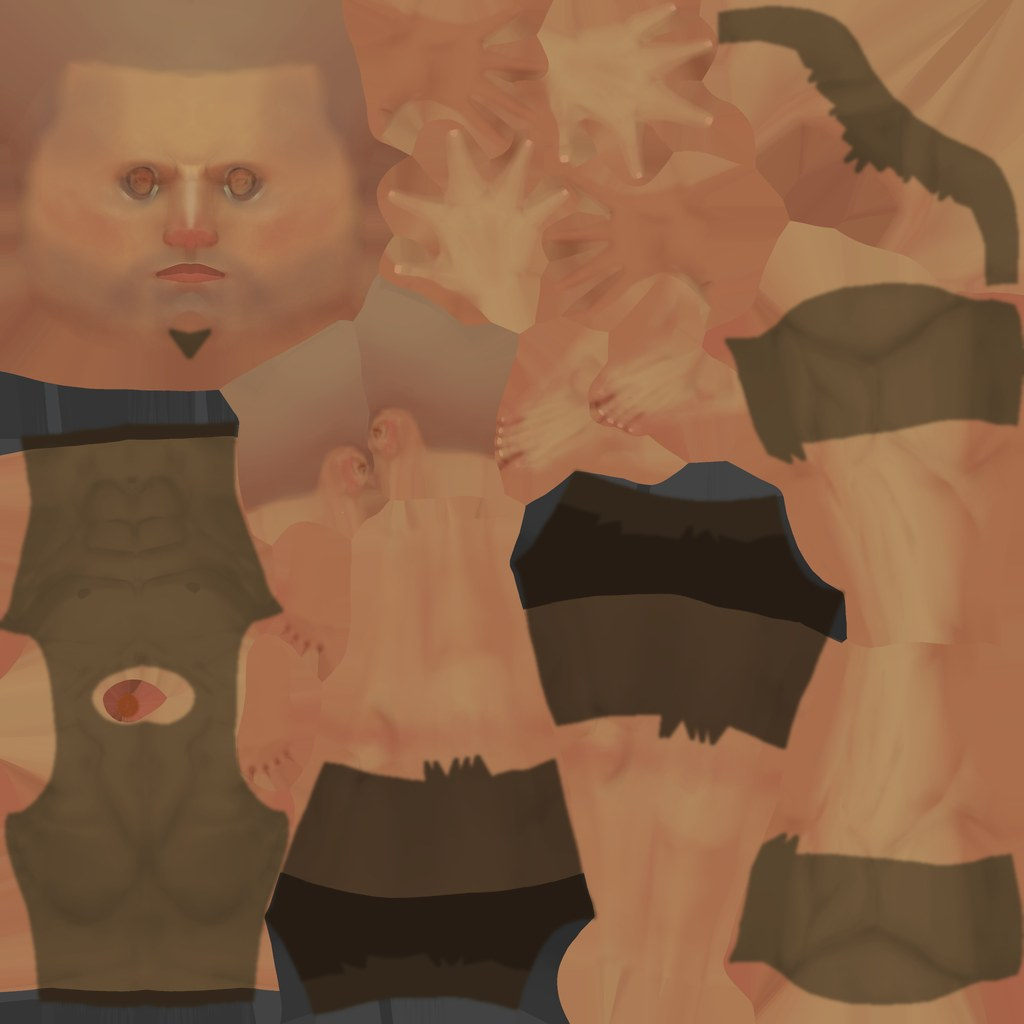
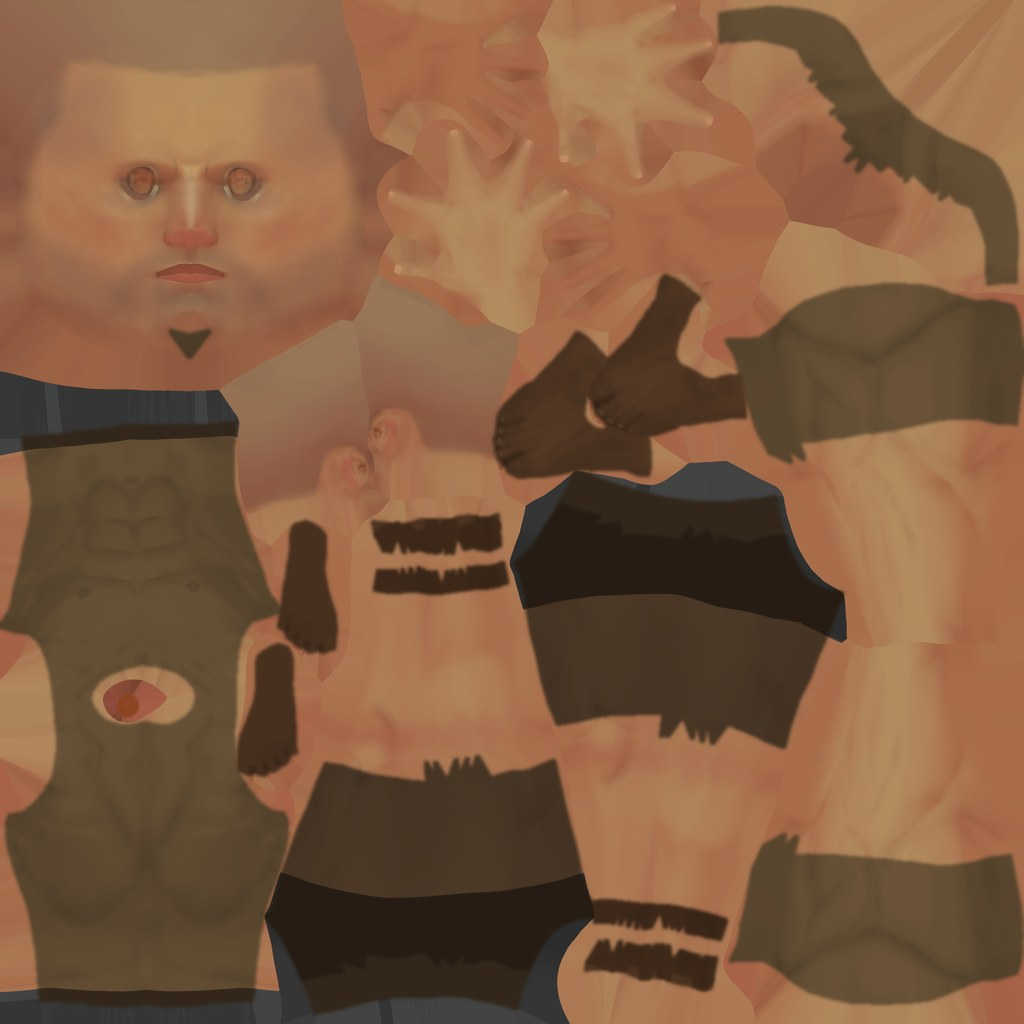
fix: chest no longer spins (counter-twist was accumulating on held guard poses); velites turn and run when pressed; feat: three Lusitanian companions who follow, hold during ambush, fight and can fall; Romans pick the nearest of Viriato and companions; leather shoes on all bodies
Claude-Session: https://claude.ai/code/session_01ELAARJfiSJ5tJReoBhHHsc

Changed region(s): [[0.4688, 0.25, 0.75, 0.4688], [0.2188, 0.5, 0.5, 0.7812], [0.5625, 0.875, 0.7188, 0.9688]]

diff --git a/src/game.js b/src/game.js
@@ -11,6 +11,7 @@ import { withTimeout } from './physics.js';
 import { sweepHit, capsuleOf, glance, bladeSegment, toWorld, bladeDir } from './swing.js';
 import { resolveQuality } from './quality.js';
 import { makeRig, driveRig } from './rig.js';
+import { followSlot, pickFoe, pickTarget, allyAct } from './ally.js';
 
 /**
  * Builds the whole game. Rendering, DOM and window are injected so the game can run headless in tests.
@@ -587,7 +588,8 @@ const WNAMES = ['Falcata', 'Dardos', 'Funda'];
 let state = 'menu';
 const P = { f: C.createFighter(), pos: new THREE.Vector3(), vy: 0, yaw: 0, pitch: 0, hp: 100, ground: true, crouch: 0, w: 0, dardos: 0, pedras: 0,
   atk: 0, cd: 0, kills: 0, shots: 0, hits: 0, heads: 0, time: 0, stepT: 0, bob: 0, swing: 0, throwT: 0, hurtT: 0 };
-let enemies = [], projectiles = [], pickups = [];
+let enemies = [], projectiles = [], pickups = [], allies = [], companions = 3;
+let forcedDir = null; // tests pin the blow direction
 let mission = 0, tentsBurnt = 0, missionMsgT = 0, alarm = false;
 Object.defineProperty(P, 'st', { get() { return P.f.stamina; }, set(v) { P.f.stamina = v; }, enumerable: false });
 Object.defineProperty(P, 'block', { get() { return P.f.blocking != null; }, enumerable: false });
@@ -597,6 +599,8 @@ let view = 'third'; // M&B-style over-the-shoulder by default; V toggles first p
 function resetWorld() {
   // clear dynamic objects
   for (const e of enemies) { scene.remove(e.m.root); if (e.corpse) phys.removeCorpse(e.corpse); }
+  for (const a of allies) scene.remove(a.m.root);
+  allies = [];
   for (const p of projectiles) phys.remove(p.pid);
   for (const p of projectiles) scene.remove(p.mesh);
   for (const p of pickups) scene.remove(p.mesh);
@@ -611,6 +615,7 @@ function resetWorld() {
   P.pos.set(CASTRO.x - 9, 0, CASTRO.z - 5); P.pos.y = heightAt(P.pos.x, P.pos.z);
   P.yaw = Math.PI * .28; P.pitch = -.05;
   mission = 0; tentsBurnt = 0; alarm = false;
+  for (let i = 0; i < companions; i++) spawnAlly(i);
   // patrol on the road, marching south
   const col = ['legio', 'legio', 'velite', 'legio', 'legio', 'velite', 'legio', 'legio'];
   col.forEach((k, i) => { const z = -18 - i * 3.2; spawn(k, roadX(z) + (i % 2 ? 1 : -1), z, 'patrol'); });
@@ -637,6 +642,16 @@ function spawn(kind, x, z, group) {
     dir: -1, aware: 0, atkT: 0, f: C.createFighter({ shieldHP: kind === 'velite' ? 0 : 220, stamina: kind === 'centurion' ? 140 : 100 }), aiT: rr(0, .3), act: 'approach', vel: { x: 0, z: 0 }, dodgeRoll: 1, mv: { x: 0, z: 0 }, releaseAt: 0, feintAt: 0, blockLeft: 0, slowT: 0, cd: rr(.5, 1.5), ph: rr(0, TAU), flash: 0, dead: false, deadT: 0, wander: null, wT: 0, strafe: rand() < .5 ? 1 : -1, moving: 0, barkT: 0 };
   if (group === 'patrol') { e.yaw = 0; e.dir = 1; } // marching south (+z)
   enemies.push(e); return e;
+}
+
+/** One of Viriato's companions: follows him, joins the fight once the Romans are fighting. */
+function spawnAlly(i) {
+  const m = soldier('lusitano'); scene.add(m.root);
+  const s = followSlot(i, P.pos, flatFwd());
+  const a = { kind: 'lusitano', ally: true, m, pos: new THREE.Vector3(s.x, heightAt(s.x, s.z), s.z), yaw: P.yaw + Math.PI, hp: 110, f: C.createFighter(), state: 'follow', i,
+    vel: { x: 0, z: 0 }, mv: { x: 0, z: 0 }, aiT: rr(0, .3), blockLeft: 0, releaseAt: 0, stride: 0, ph: rr(0, TAU), flash: 0, dead: false, deadT: 0, hits: 0, crouch: false, swingHits: new Set() };
+  m.root.position.copy(a.pos); m.root.rotation.y = a.yaw;
+  allies.push(a); return a;
 }
 
 function addPickup(type, x, z, y) {
@@ -843,6 +858,19 @@ function enemySwing(e, ev) {
   if (ev.p0 === 0) { e.swingHit = false; SFX.swing(); }
   if (e.swingHit || state !== 'play') return;
   if (bladeBounced(e.pos, e.yaw, ev.dir, ev.p1)) { C.stopBlade(e.f); SFX.clank(spatial(e.pos) * .7); return; }
+  const a = e.T && e.T.ally;
+  if (a) {                               // the blow is aimed at a companion
+    if (a.dead) return;
+    const ra = sweepHit(e.pos, e.yaw, ev.dir, ev.p0, ev.p1, capsuleOf(a.pos));
+    if (!ra.hit) return;
+    e.swingHit = true;
+    const da = V(a.pos.x - e.pos.x, 0, a.pos.z - e.pos.z).normalize(), af = V(Math.sin(a.yaw), 0, Math.cos(a.yaw));
+    const res = C.resolveHit(a.f, { dir: ev.dir, power: ev.power * glance(ra.p), fromAngle: deg(Math.acos(clamp(af.dot(da.clone().negate()), -1, 1))), baseDamage: e.dmg });
+    const at = V(ra.at.x, ra.at.y, ra.at.z);
+    if (res.result === 'parried' || res.result === 'blocked') { C.stopBlade(e.f); if (res.attackerStagger) C.stagger(e.f, res.attackerStagger); SFX.clank(spatial(a.pos)); burst('spark', at, 8); return; }
+    if (res.damage > 0) hurtAlly(a, res.damage, at);
+    return;
+  }
   const r = sweepHit(e.pos, e.yaw, ev.dir, ev.p0, ev.p1, capsuleOf(P.pos, .32, 1.75 - P.crouch * .55));
   if (!r.hit) return;
   e.swingHit = true;
@@ -855,6 +883,86 @@ function enemySwing(e, ev) {
   if (res.result === 'blocked') { C.stopBlade(e.f); SFX.clank(); burst('spark', spark, 8); P.shake = .18; P.push = { x: dd.x * 1.5, z: dd.z * 1.5 }; return; }
   if (res.result === 'guardBroken') showPrompt('Guarda quebrada!', 1);
   if (res.damage > 0) { hurtPlayer(res.damage, e.pos); burst('blood', spark, 4); P.push = { x: dd.x * 2.5, z: dd.z * 2.5 }; P.kick = .25; hitStop(.05); }
+}
+function hurtAlly(a, dmg, at) {
+  a.hp -= dmg; a.hits++; a.heavy = dmg >= 30; a.flash = .15; burst('blood', at, 6); SFX.flesh(spatial(a.pos));
+  if (a.hp <= 0) { a.dead = true; a.deadT = 0; C.endBlock(a.f); SFX.die(spatial(a.pos)); feed('Um companheiro tombou'); }
+}
+/** A companion's falcata travelling its arc. */
+function allySwing(a, ev) {
+  if (ev.p0 === 0) { a.swingHits = new Set(); SFX.swing(spatial(a.pos)); }
+  if (bladeBounced(a.pos, a.yaw, ev.dir, ev.p1)) { C.stopBlade(a.f); return; }
+  for (const e of enemies) {
+    if (e.dead || a.swingHits.has(e) || Math.abs(e.pos.x - a.pos.x) > 4 || Math.abs(e.pos.z - a.pos.z) > 4) continue;
+    const r = sweepHit(a.pos, a.yaw, ev.dir, ev.p0, ev.p1, capsuleOf(e.pos));
+    if (!r.hit) continue;
+    a.swingHits.add(e);
+    const d = V(e.pos.x - a.pos.x, 0, e.pos.z - a.pos.z).normalize(), ef = V(Math.sin(e.yaw), 0, Math.cos(e.yaw));
+    const res = C.resolveHit(e.f, { dir: ev.dir, power: ev.power * glance(r.p), fromAngle: deg(Math.acos(clamp(ef.dot(d.clone().negate()), -1, 1))), baseDamage: 26 });
+    const at = V(r.at.x, r.at.y, r.at.z);
+    if (res.result === 'parried' || res.result === 'blocked') { C.stopBlade(a.f); if (res.attackerStagger) C.stagger(a.f, res.attackerStagger); SFX.clank(spatial(a.pos)); burst('spark', at, 8); return; }
+    damageEnemy(e, res.damage, false, at, null, true); knock(e, d, 1);
+  }
+}
+function updateAllies(dt) {
+  const pf = flatFwd(), sprinting = Math.hypot(P.vel.x, P.vel.z) > 6;
+  for (const a of allies) {
+    const r = a.m.root;
+    if (a.dead) {
+      a.deadT += dt; a.mv.x = a.mv.z = 0;
+      if (a.m.rig) setPose(a, dt); else if (a.deadT < 1) { r.rotation.x = -Math.PI / 2 * smooth(0, .7, a.deadT); r.position.y = a.pos.y + .15 * smooth(0, .7, a.deadT); }
+      for (const m of a.m.mats) m.emissive.setRGB(0, 0, 0);
+      continue;
+    }
+    const px0 = a.pos.x, pz0 = a.pos.z;
+    if (a.flash > 0) a.flash -= dt; a.ph += dt;
+    const fl = Math.max(0, a.flash) * 4; for (const m of a.m.mats) m.emissive.setRGB(fl * .6, 0, 0);
+    const near = Math.hypot(P.pos.x - a.pos.x, P.pos.z - a.pos.z) < 32;
+    const foe = state === 'play' && near ? pickFoe(a.pos, enemies, 22) : null;
+    let want = { x: 0, z: 0 };
+    if (foe) {
+      a.state = 'chase'; a.crouch = false;
+      const dx = foe.pos.x - a.pos.x, dz = foe.pos.z - a.pos.z, d = Math.hypot(dx, dz) || 1;
+      faceTo(a, foe.pos.x, foe.pos.z, dt, a.f.phase === 'windup' ? 3.5 : 7);
+      a.aiT -= dt; a.blockLeft -= dt;
+      if (a.f.phase === 'idle') { const wb = a.blockLeft > 0 && a.f.shieldHP > 0; if (wb && !a.f.blocking) C.beginBlock(a.f, 'shield'); else if (!wb && a.f.blocking) C.endBlock(a.f); }
+      if (a.aiT <= 0 && a.f.phase === 'idle') {
+        a.aiT = .3;
+        const act = allyAct({ dist: d, foePhase: foe.f.phase, rng: rand });
+        if (act === 'block') a.blockLeft = rr(.5, .8);
+        else if (act === 'attack' && a.blockLeft <= 0) { C.endBlock(a.f); const dir = C.randomDir(a.lastDir, rand); if (C.beginAttack(a.f, dir)) { a.lastDir = dir; a.releaseAt = C.WINDUP[dir] + rr(0, .2); } }
+      }
+      if (a.f.phase === 'windup' && !a.f.released && a.f.t >= a.releaseAt) C.releaseAttack(a.f);
+      const sp = d > REACH ? Math.min(4.6, Math.max(.8, (d - REACH) * 3)) * (a.f.blocking ? .6 : 1) : d < 1.1 ? -1.4 : a.f.phase === 'windup' ? .9 : 0;
+      want = { x: dx / d * sp, z: dz / d * sp };
+      for (const ev of C.tickFighter(a.f, dt)) if (ev.type === 'swing') allySwing(a, ev);
+      sampleTrail(a, a.pos, a.yaw, a.f);
+    } else {
+      a.state = 'follow'; if (a.f.blocking) C.endBlock(a.f); if (a.f.phase === 'windup') C.feint(a.f);
+      C.tickFighter(a.f, dt);
+      a.crouch = P.crouch > .5;
+      const s = followSlot(a.i, P.pos, pf), dx = s.x - a.pos.x, dz = s.z - a.pos.z, d = Math.hypot(dx, dz);
+      if (d > 70) { a.pos.x = s.x; a.pos.z = s.z; a.vel.x = a.vel.z = 0; }
+      else if (d > (a.moving ? .5 : 1.6)) {
+        a.moving = true; const sp = Math.min(a.crouch ? 2.4 : sprinting || d > 9 ? 8 : 4.6, d * 2.2); want = { x: dx / d * sp, z: dz / d * sp };
+        // blocked by a wall, hut or tree: slide round it for a moment
+        if (sp > 1.5 && Math.hypot(a.mv.x, a.mv.z) < .6) a.stuckT = (a.stuckT || 0) + dt; else a.stuckT = 0;
+        if (a.stuckT > .5) { a.detourT = 1.3; a.detour = a.detour ? -a.detour : (a.i % 2 ? 1 : -1); a.stuckT = 0; }
+        if (a.detourT > 0) { a.detourT -= dt; want = { x: (-dz / d * a.detour * .9 + dx / d * .3) * sp, z: (dx / d * a.detour * .9 + dz / d * .3) * sp }; }
+        faceTo(a, a.pos.x + want.x, a.pos.z + want.z, dt, 5);
+      }
+      else { a.moving = false; faceTo(a, a.pos.x + pf.x, a.pos.z + pf.z, dt, 3); }
+    }
+    a.vel = steer(a.vel, want, 12, dt);
+    a.pos.x += a.vel.x * dt; a.pos.z += a.vel.z * dt;
+    for (const o of allies) { if (o === a || o.dead) continue; const dx = a.pos.x - o.pos.x, dz = a.pos.z - o.pos.z, d = Math.hypot(dx, dz); if (d < 1.3 && d > 1e-3) { a.pos.x += dx / d * (1.3 - d) * .5; a.pos.z += dz / d * (1.3 - d) * .5; } }
+    for (const o of enemies) { if (o.dead) continue; const dx = a.pos.x - o.pos.x, dz = a.pos.z - o.pos.z, d = Math.hypot(dx, dz); if (d < 1.0 && d > 1e-3) { a.pos.x += dx / d * (1 - d); a.pos.z += dz / d * (1 - d); } }
+    { const dx = a.pos.x - P.pos.x, dz = a.pos.z - P.pos.z, d = Math.hypot(dx, dz); if (d < 1.1 && d > 1e-3) { a.pos.x += dx / d * (1.1 - d); a.pos.z += dz / d * (1.1 - d); } }
+    resolve(a.pos, .4); a.pos.y = heightAt(a.pos.x, a.pos.z);
+    if (dt > 1e-4) { const k = Math.min(1, dt * 12); a.mv.x = lerp(a.mv.x, (a.pos.x - px0) / dt, k); a.mv.z = lerp(a.mv.z, (a.pos.z - pz0) / dt, k); }
+    const bob = setPose(a, dt);
+    r.position.set(a.pos.x, a.pos.y + bob, a.pos.z); r.rotation.y = a.yaw;
+  }
 }
 function use() {
   for (const t of supplyTents) {
@@ -948,16 +1056,15 @@ function updateProjectiles(dt) {
    Damage
    ========================================================= */
 let hitmT = 0, dmgT = 0;
-function damageEnemy(e, dmg, head, where, special) {
+function damageEnemy(e, dmg, head, where, special, byAlly) {
   e.hp -= dmg; e.flash = .15; e.hits = (e.hits || 0) + 1; e.heavy = dmg >= 45; burst('blood', where, head ? 14 : 8);
   SFX.flesh(); alert(e);
-  hitmT = .18; $('hitm').className = head ? 'head' : ''; $('hitm').style.opacity = 1;
-  if (head) P.heads++;
+  if (!byAlly) { hitmT = .18; $('hitm').className = head ? 'head' : ''; $('hitm').style.opacity = 1; if (head) P.heads++; }
   if (e.hp <= 0) {
-    e.dead = true; e.deadT = 0; P.kills++; SFX.die(spatial(e.pos));
+    e.dead = true; e.deadT = 0; if (!byAlly) P.kills++; SFX.die(spatial(e.pos));
     { const d = V(e.pos.x - P.pos.x, 0, e.pos.z - P.pos.z).normalize(); e.corpse = phys.addCorpse(e.pos, e.yaw, { x: d.x, y: .3, z: d.z }); }
     const name = { legio: 'Legionário', velite: 'Vélite', centurion: 'Centurião' }[e.kind];
-    feed(`${name} abatido${special ? ' — ' + special : head ? ' — na cabeça' : ''}`);
+    feed(`${name} abatido${byAlly ? ' por um companheiro' : special ? ' — ' + special : head ? ' — na cabeça' : ''}`);
     if (e.kind !== 'centurion' && rand() < .4) addPickup(rand() < .5 ? 'odre' : (rand() < .5 ? 'dardos' : 'pedras'), e.pos.x + rr(-.6, .6), e.pos.z + rr(-.6, .6));
     // the fallen alert their comrades
     for (const o of enemies) if (!o.dead && o.pos.distanceTo(e.pos) < 22) alert(o);
@@ -1158,7 +1265,8 @@ const engaged = new Set();
 /** Only the 2 (3 on Hard) nearest alerted swordsmen may close in; the rest wait in a ring. */
 function updateEngaged() {
   engaged.clear();
-  const melee = enemies.filter(e => !e.dead && e.state === 'chase' && e.kind !== 'velite');
+  for (const e of enemies) e.T = !e.dead && e.state === 'chase' ? pickTarget(e.pos, P, allies) : null;
+  const melee = enemies.filter(e => !e.dead && e.state === 'chase' && e.kind !== 'velite' && !e.T.ally);
   melee.sort((a, b) => a.pos.distanceToSquared(P.pos) - b.pos.distanceToSquared(P.pos));
   for (const e of melee.slice(0, diff === 2 ? 3 : 2)) engaged.add(e);
 }
@@ -1203,18 +1311,19 @@ function updateEnemies(dt) {
       }
     } else if (e.state === 'chase') {
       if (e.alarmT != null && e.alarmT > 0) { e.alarmT -= dt; if (e.alarmT <= 0) raiseAlarm(); }
-      faceTo(e, P.pos.x, P.pos.z, dt, e.f.phase === 'windup' ? 3.5 : 7);
+      const T = e.T || pickTarget(e.pos, P, allies), td = T.dist, tf = T.ally ? T.ally.f : P.f; // fights Viriato or a companion
+      faceTo(e, T.pos.x, T.pos.z, dt, e.f.phase === 'windup' ? 3.5 : 7);
       const slow = e.slowT > 0 ? LEG_SLOW.factor : 1; e.slowT -= dt;
       e.blockLeft -= dt; e.aiT -= dt;
       // raise the scutum against missiles while closing in, or when the AI chose to block
       if (e.f.phase === 'idle') {
-        const want = e.blockLeft > 0 || (pd > 3.5 && P.w !== 0);
+        const want = e.blockLeft > 0 || (!T.ally && pd > 3.5 && P.w !== 0);
         if (want && !e.f.blocking) C.beginBlock(e.f, 'shield'); else if (!want && e.f.blocking) C.endBlock(e.f);
       }
       if (e.aiT <= 0 && state === 'play' && e.f.phase === 'idle') {
         e.aiT = e.kind === 'centurion' ? .18 : .26; e.dodgeRoll = rand(); if (rand() < .12) e.strafe *= -1;
         const attackersNow = enemies.filter(o => o !== e && !o.dead && o.kind !== 'velite' && o.f.phase === 'windup').length;
-        e.act = decide({ kind: e.kind, fighter: e.f }, { dist: pd, playerFighter: P.f, difficulty: diff, attackersNow, rng: rand, engaged: engaged.has(e) });
+        e.act = decide({ kind: e.kind, fighter: e.f }, { dist: td, playerFighter: tf, difficulty: diff, attackersNow, rng: rand, engaged: engaged.has(e) || !!T.ally });
         if (e.act.startsWith('attack:')) { const dir = e.act.slice(7); C.endBlock(e.f); if (C.beginAttack(e.f, dir)) { e.releaseAt = C.WINDUP[dir] + rr(0, .25) * (e.kind === 'centurion' ? .4 : 1); e.feintAt = 0; } }
         else if (e.act === 'block') e.blockLeft = rr(.5, .9);
         else if (e.act === 'feint') { C.endBlock(e.f); if (C.beginAttack(e.f, C.DIRS[Math.floor(rand() * 4)])) { e.feintAt = rr(.15, .3); e.releaseAt = 99; } }
@@ -1224,9 +1333,9 @@ function updateEnemies(dt) {
         else if (!e.f.released && e.f.t >= e.releaseAt) C.releaseAttack(e.f);
       }
       { // duel footwork with acceleration-limited steering (no instant starts, stops or sliding)
-        const fw = footwork({ dist: pd, sp: e.sp * slow * (e.f.blocking ? .6 : 1) * (pd > 25 ? 1.15 : 1), act: e.act, strafe: e.strafe,
-          difficulty: diff, rng: () => e.dodgeRoll, self: e.f, player: P.f });
-        const fx = (P.pos.x - e.pos.x) / (pd || 1), fz = (P.pos.z - e.pos.z) / (pd || 1);
+        const fw = footwork({ dist: td, sp: e.sp * slow * (e.f.blocking ? .6 : 1) * (td > 25 ? 1.15 : 1), act: e.act, strafe: e.strafe,
+          difficulty: diff, rng: () => e.dodgeRoll, self: e.f, player: tf });
+        const fx = (T.pos.x - e.pos.x) / (td || 1), fz = (T.pos.z - e.pos.z) / (td || 1);
         e.vel = steer(e.vel, { x: fx * fw.forward + fz * fw.strafe, z: fz * fw.forward - fx * fw.strafe }, 9, dt);
         e.pos.x += e.vel.x * dt; e.pos.z += e.vel.z * dt;
         speed = Math.hypot(e.vel.x, e.vel.z);
@@ -1236,9 +1345,10 @@ function updateEnemies(dt) {
       if (e.kind === 'centurion' && e.barkT <= 0) { e.barkT = 6; SFX.grunt(spatial(e.pos)); for (const o of enemies) if (!o.dead && o.pos.distanceTo(e.pos) < 30) alert(o); }
     } else if (e.state === 'skirmish') {
       if (e.alarmT != null && e.alarmT > 0) { e.alarmT -= dt; if (e.alarmT <= 0) raiseAlarm(); }
-      faceTo(e, P.pos.x, P.pos.z, dt, 6);
+      if (pd < 9) e.flee = true; else if (pd > 14) e.flee = false;
+      if (e.flee && e.atkT <= 0) faceTo(e, 2 * e.pos.x - P.pos.x, 2 * e.pos.z - P.pos.z, dt, 6); else faceTo(e, P.pos.x, P.pos.z, dt, 6);
       const sees = losTerrain(e.pos.x, e.pos.y + 1.7, e.pos.z, P.pos.x, P.pos.y + 1.4, P.pos.z);
-      if (pd < 11) { const a = Math.atan2(e.pos.x - P.pos.x, e.pos.z - P.pos.z); speed = moveEnemy(e, e.pos.x + Math.sin(a) * 3, e.pos.z + Math.cos(a) * 3, e.sp, dt); }
+      if (e.flee) { const a = Math.atan2(e.pos.x - P.pos.x, e.pos.z - P.pos.z); speed = moveEnemy(e, e.pos.x + Math.sin(a) * 3, e.pos.z + Math.cos(a) * 3, e.sp, dt); }
       else if (pd > 26 || !sees) speed = moveEnemy(e, P.pos.x, P.pos.z, e.sp, dt);
       else { const a = Math.atan2(P.pos.x - e.pos.x, P.pos.z - e.pos.z) + Math.PI / 2 * e.strafe; speed = moveEnemy(e, e.pos.x + Math.sin(a) * 2, e.pos.z + Math.cos(a) * 2, 1.6, dt); if (rand() < dt * .3) e.strafe *= -1; }
       if (e.atkT > 0) {
@@ -1250,7 +1360,7 @@ function updateEnemies(dt) {
           const vel = V((target.x - from.x) / t, (target.y - from.y) / t + .5 * 11 * t, (target.z - from.z) / t);
           spawnProj('javelin', from, vel, 'enemy', e.dmg); SFX.jav(spatial(from));
         }
-      } else if (sees && pd < 34 && e.cd <= 0 && state === 'play') { e.atkT = .55; e.cd = rr(2.2, 3.6); }
+      } else if (sees && !e.flee && pd < 34 && e.cd <= 0 && state === 'play') { e.atkT = .55; e.cd = rr(2.2, 3.6); }
     }
     // separation
     for (const o of enemies) {
@@ -1325,7 +1435,7 @@ function updatePlayer(dt) {
       // buffered: a click during recovery/flinch starts the blow as soon as the fighter is free
       P.post.x = 0; P.post.y = 0;
       // direction is random for now (no mouse sweep needed); C.dirFromMouse(P.acc) is the Mount & Blade alternative
-      if (!C.beginAttack(P.f, C.randomDir(P.lastDir))) {
+      if (!C.beginAttack(P.f, forcedDir || C.randomDir(P.lastDir))) {
         if (P.f.phase === 'idle' && !P.f.blocking) { P.charging = false; showPrompt('Sem fôlego para atacar', .6); }
         else if (released) P.queued = true;
       } else if (P.queued) { P.queued = false; C.releaseAttack(P.f); P.charging = false; }
@@ -1568,10 +1678,10 @@ $('sens2').addEventListener('input', e => { setSens(+e.target.value); $('sens').
 let menuT = 0;
 function step(dt) {
   if (hitStopT > 0) { hitStopT -= dt; dt *= .15; } // brief impact freeze
-  if (state === 'play') { updatePlayer(dt); updateEnemies(dt); updateProjectiles(dt); updateCamera(dt); updateHUD(dt); }
+  if (state === 'play') { updatePlayer(dt); updateEnemies(dt); updateAllies(dt); updateProjectiles(dt); updateCamera(dt); updateHUD(dt); }
   else if (state === 'dead' || state === 'won') {
     if (endT > 0) { endT -= dt; if (endT <= 0 && endArgs) { endScreen(...endArgs); endArgs = null; } }
-    updateEnemies(dt); updateProjectiles(dt);
+    updateEnemies(dt); updateAllies(dt); updateProjectiles(dt);
     if (state === 'dead') { P.crouch = Math.min(1.9, P.crouch + dt * 2); camera.position.y = Math.max(P.pos.y + .3, camera.position.y - dt * 2); camera.rotation.z = Math.min(.6, camera.rotation.z + dt); }
   } else if (state === 'menu') {
     menuT += dt * .04;
@@ -1609,7 +1719,7 @@ $('start').disabled = false; $('start').textContent = 'COMEÇAR';
 return {
   start: d => { if (d != null) diff = d; startGame(); }, step, render: () => R.render(), setQuality: q => R.setQuality(q), get quality() { return R.state.preset; }, resume, use, damagePlayer,
   P, supplyTents, heightAt, CAMP, scene, camera,
-  get enemies() { return enemies; }, get mission() { return mission; }, get state() { return state; },
+  get enemies() { return enemies; }, get allies() { return allies; }, setCompanions: n => { companions = n; }, forceDir: d => { forcedDir = d; }, hurtAllyForTest: (a, d) => hurtAlly(a, d, a.pos.clone()), get mission() { return mission; }, get state() { return state; },
   get projectiles() { return projectiles; }, get pickups() { return pickups; },
   input: { mouse: (l, r) => { mouseL = l; mouseR = r; }, mouseMove: (dx, dy) => { C.nudgeIntent(P.intent, dx, dy); if (P.charging) { P.acc.x += dx; P.acc.y += dy; } if (P.f.phase === 'windup' && !P.f.released) { P.post.x += dx; P.post.y += dy; } } },
   studio: { pose: (e, dt) => { const b = setPose(e, dt); e.m.root.position.set(e.pos.x, e.pos.y + b, e.pos.z); e.m.root.rotation.y = e.yaw; }, freeze: () => { state = 'studio'; }, play: () => { state = 'play'; }, avatarEntity: () => avatar },

diff --git a/src/ally.js b/src/ally.js
@@ -1,0 +1,34 @@
+// Pure rules for Viriato's companions and for whom the Romans choose to fight.
+import { REACH } from './ai.js';
+
+/** Where companion i walks when not fighting: a loose line behind the player. fwd = player's flat forward. */
+export function followSlot(i, p, fwd) {
+  const side = [0, -1, 1][i % 3] * 1.9, back = 2.4 + (i % 3 === 0 ? .9 : 0) + Math.floor(i / 3) * 1.8;
+  return { x: p.x - fwd.x * back - fwd.z * side, z: p.z - fwd.z * back + fwd.x * side };
+}
+/** Nearest living Roman within `range` who is already fighting (so companions never spoil an ambush). */
+export function pickFoe(me, foes, range) {
+  let best = null, bd = range;
+  for (const e of foes) {
+    if (e.dead || (e.state !== 'chase' && e.state !== 'skirmish')) continue;
+    const d = Math.hypot(e.pos.x - me.x, e.pos.z - me.z);
+    if (d < bd) { bd = d; best = e; }
+  }
+  return best;
+}
+/** Whom a Roman at `pos` fights: a companion only if clearly nearer than the player. → { ally|null, pos, dist } */
+export function pickTarget(pos, player, allies) {
+  let ally = null, bd = Math.hypot(player.pos.x - pos.x, player.pos.z - pos.z), tp = player.pos; const pd = bd;
+  for (const a of allies) {
+    if (a.dead) continue;
+    const d = Math.hypot(a.pos.x - pos.x, a.pos.z - pos.z);
+    if (d < bd && d < pd * .8) { bd = d; ally = a; tp = a.pos; }
+  }
+  return { ally, pos: tp, dist: bd };
+}
+/** What a companion does this decision tick. */
+export function allyAct({ dist, foePhase, rng }) {
+  if (dist > REACH + .2) return 'approach';
+  if (foePhase === 'windup' && rng() < .55) return 'block';
+  return rng() < .7 ? 'attack' : 'wait';
+}

diff --git a/src/rig.js b/src/rig.js
@@ -184,11 +184,15 @@ export function driveRig(THREE, rig, s, dt) {
     if (rig.oneShot && /Shield_Break|Knockback/.test(rig.oneShot.clip)) sh[rig.oneShot.clip] = { w: 2, time: rig.oneShot.t };
   }
   blendLayer(rig, 'lo', lo, dt); blendLayer(rig, 'up', up, dt); if (rig.shielded) blendLayer(rig, 'sh', sh, dt);
+  // undo last frame's counter-twist first: the mixer skips bones whose animated value did not change
+  // (a held guard pose), so a twist left on the bone would add up frame after frame and spin the chest
+  const sp1 = rig.bones.spine_01;
+  if (rig.spineBase && sp1) { sp1.quaternion.copy(rig.spineBase); rig.spineBase = null; }
   rig.mixer.update(dt);
   // legs turn toward travel, spine turns back so the chest stays on the target
   if (Math.abs(rig.side) > .01) {
     rig.body.rotation.y = rig.side;
-    const sp1 = rig.bones.spine_01; if (sp1) twistWorldY(THREE, sp1, -rig.side);
+    if (sp1) { rig.spineBase = (rig._sb || (rig._sb = sp1.quaternion.clone())).copy(sp1.quaternion); twistWorldY(THREE, sp1, -rig.side); }
   } else rig.body.rotation.y = 0;
 }
 

diff --git a/tools/paint-outfits.py b/tools/paint-outfits.py
@@ -13,7 +13,7 @@ def acc(i):
     return np.frombuffer(b, dtype=dt, count=a['count'] * n, offset=v.get('byteOffset', 0) + a.get('byteOffset', 0)).reshape(a['count'], n)
 prim = next(p for m in j['meshes'] for p in m['primitives'] if j['materials'][p['material']]['name'] == 'MI_Superhero_Male')
 P = acc(prim['attributes']['POSITION']); UV = acc(prim['attributes']['TEXCOORD_0']); I = acc(prim['indices']).reshape(-1, 3)
-masks = {k: Image.new('L', (S, S), 0) for k in ('upper', 'lower', 'sleeve')}
+masks = {k: Image.new('L', (S, S), 0) for k in ('upper', 'lower', 'sleeve', 'shoe', 'strap')}
 draw = {k: ImageDraw.Draw(m) for k, m in masks.items()}
 for tri in I:
     c = P[tri].mean(0); x, y = abs(c[0]), c[1]
@@ -21,6 +21,8 @@ for tri in I:
     if x < .26 and .98 <= y <= 1.58: k = 'upper'          # chest, back, and the shoulder tops round the neck opening
     elif x < .26 and .6 <= y < .98: k = 'lower'           # belly, hips, skirt to mid-thigh
     elif .2 <= x < .4 and y > 1.28: k = 'sleeve'          # short sleeves
+    elif y < .095 and x < .3: k = 'shoe'                  # closed leather shoe
+    elif (.095 <= y < .125 or .19 <= y < .215) and x < .3: k = 'strap'  # ankle cuff and a thong tied above it
     if not k: continue
     uv = UV[tri]
     if np.ptp(uv[:, 0]) > .3 or np.ptp(uv[:, 1]) > .3: continue  # seam-spanning triangle
@@ -50,5 +52,8 @@ for name, cols in OUTFITS.items():
         m = np.asarray(masks[k], np.float32)[..., None] / 255
         cloth = mail * shade if col == 'mail' else np.array(col, np.float32) * shade
         img = img * (1 - m) + cloth * m
+    for k, col in (('shoe', (74, 50, 32)), ('strap', (58, 38, 24))):
+        m = np.asarray(masks[k], np.float32)[..., None] / 255
+        img = img * (1 - m) + np.array(col, np.float32) * np.clip(shade, .7, 1.25) * m
     Image.fromarray(img.clip(0, 255).astype(np.uint8)).save(OUT + 'body_' + name + '.jpg', quality=88)
     print('body_' + name + '.jpg')
